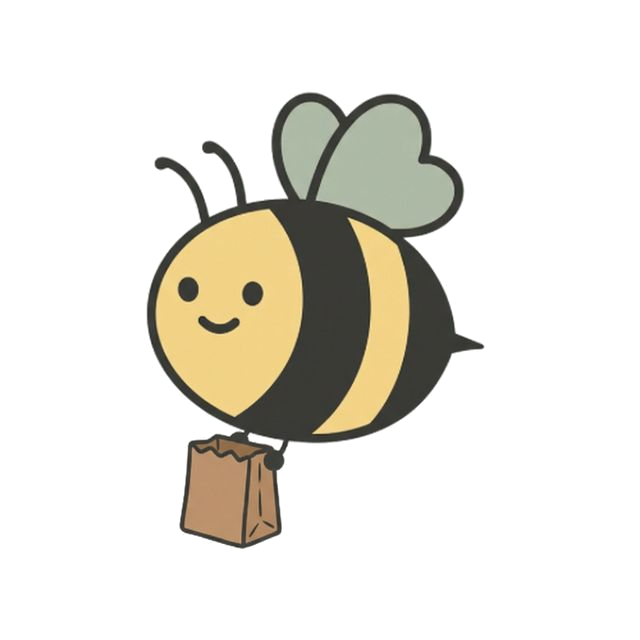
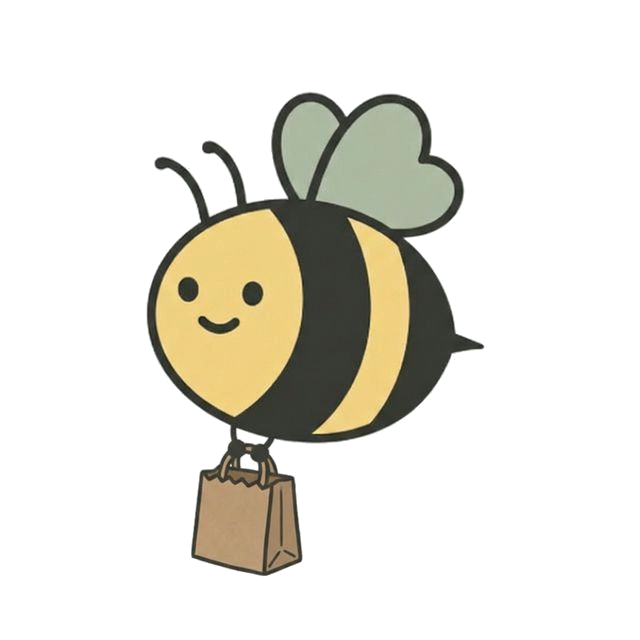
Standardize Bee Done cards layout, adjust home page buttons

Changed region(s): [[0.2812, 0.6562, 0.5, 0.9062]]

diff --git a/src/app/for-home-and-life/bee-done/page.tsx b/src/app/for-home-and-life/bee-done/page.tsx
@@ -221,7 +221,7 @@ export default function BeeDonePage() {
                             </div>
 
                             <div className="p-8">
-                                <div className="grid sm:grid-cols-2 lg:grid-cols-3 gap-4 mb-6">
+                                <div className="grid sm:grid-cols-2 gap-4 mb-6">
                                     {[
                                         { name: 'Returns', desc: 'Dropping off pre-labeled Amazon, UPS, or FedEx packages.', icon: '/bee_returns_box.png' },
                                         { name: 'Grocery/Retail Pickups', desc: 'Curbside pickup & delivery of pre-ordered items.', icon: '/bee_grocery_bag.png' },
@@ -229,12 +229,18 @@ export default function BeeDonePage() {
                                         { name: 'Pharmacy', desc: 'Secure pickup of pre-paid prescriptions.', icon: '/bee_pharmacy_pill.png' },
                                         { name: 'Post Office', desc: 'Handling mail, stamps, or prepared packages.', icon: '/bee_post_office_mail.png' },
                                     ].map((errand, i) => (
-                                        <div key={i} className="bg-white rounded-xl p-4 border border-[#BFC8A1]/20 hover:border-[#BFC8A1] hover:shadow-md transition-all">
-                                            <div className="w-24 h-24 mb-2 relative">
-                                                <Image src={errand.icon} alt={`${errand.name} Bee Icon`} fill className="object-contain" />
+                                        <div key={i} className="group rounded-xl p-5 border-2 border-[#BFC8A1]/15 hover:border-[#BFC8A1] hover:shadow-md transition-all bg-[#FFF8E7]">
+                                            <div className="flex items-center justify-between mb-2">
+                                                <div className="flex items-center gap-3">
+                                                    <div className="relative w-16 h-16 flex-shrink-0">
+                                                        <Image src={errand.icon} alt={`${errand.name} icon`} fill className="object-contain" />
+                                                    </div>
+                                                    <h3 className="font-[family-name:var(--font-lora)] font-semibold text-[#3C3C3C]">{errand.name}</h3>
+                                                </div>
                                             </div>
-                                            <h3 className="font-[family-name:var(--font-lora)] font-semibold text-[#3C3C3C] mb-1">{errand.name}</h3>
-                                            <p className="font-[family-name:var(--font-montserrat)] text-xs text-[#525252]">{errand.desc}</p>
+                                            <p className="font-[family-name:var(--font-montserrat)] text-sm text-[#525252]">
+                                                {errand.desc}
+                                            </p>
                                         </div>
                                     ))}
                                 </div>
@@ -321,24 +327,26 @@ export default function BeeDonePage() {
                             </div>
                         </div>
                         <div className="p-8">
-                            <div className="grid sm:grid-cols-2 gap-6">
+                            <div className="grid sm:grid-cols-2 gap-4">
                                 {[
                                     { name: 'The Pet Waste Yard Reset', price: '$35', desc: 'Thorough sweep of neglected yards to make them safe for kids and paws.', icon: '/bee_outdoor_scoop.png' },
                                     { name: 'The Weekly Hive Scoop', price: '$25/visit', desc: 'Weekly scheduled waste removal.', icon: '/bee_outdoor_bag.png' },
                                     { name: 'The Twice-a-Week Scoop', price: '$20/visit', desc: 'Discounted rate for two visits per week.', icon: '/bee_outdoor_two_bags.png' },
                                     { name: 'Seasonal Garden & Yard', price: '$40/hr', desc: 'Light weeding, watering, raking. Can be added to visit or booked as Worker Bee session.', icon: '/bee_outdoor_watering.png' },
                                 ].map((service, i) => (
-                                    <div key={i} className="flex gap-4 border-b border-gray-100 last:border-0 pb-4 last:pb-0 items-start">
-                                        <div className="relative w-16 h-16 flex-shrink-0 mt-1">
-                                            <Image src={service.icon} alt={`${service.name} icon`} fill className="object-contain" />
-                                        </div>
-                                        <div className="flex-grow flex flex-col">
-                                            <div className="flex justify-between items-baseline mb-1">
-                                                <h3 className="font-[family-name:var(--font-lora)] font-bold text-[#3C3C3C] leading-tight">{service.name}</h3>
-                                                <span className="text-terra-cotta-dark font-bold text-sm whitespace-nowrap flex-shrink-0 ml-2">{service.price}</span>
+                                    <div key={i} className="group rounded-xl p-5 border-2 border-[#BFC8A1]/15 hover:border-[#BFC8A1] hover:shadow-md transition-all bg-[#FFF8E7]">
+                                        <div className="flex items-center justify-between mb-2">
+                                            <div className="flex items-center gap-3">
+                                                <div className="relative w-16 h-16 flex-shrink-0">
+                                                    <Image src={service.icon} alt={`${service.name} icon`} fill className="object-contain" />
+                                                </div>
+                                                <h3 className="font-[family-name:var(--font-lora)] font-semibold text-[#3C3C3C]">{service.name}</h3>
                                             </div>
-                                            <p className="font-[family-name:var(--font-montserrat)] text-xs text-[#525252] leading-snug">{service.desc}</p>
+                                            <span className="bg-[#5D684B] text-white text-sm px-3 py-1 rounded-full font-[family-name:var(--font-montserrat)] font-bold">{service.price}</span>
                                         </div>
+                                        <p className="font-[family-name:var(--font-montserrat)] text-sm text-[#525252]">
+                                            {service.desc}
+                                        </p>
                                     </div>
                                 ))}
                             </div>

diff --git a/src/app/page.tsx b/src/app/page.tsx
@@ -208,7 +208,7 @@ export default function HomePage() {
             <Link
               key={index}
               href={service.href}
-              className={`group relative overflow-hidden rounded-3xl border-2 border-black hover:border-warm-honey transition-all duration-300 hover:shadow-xl hover:-translate-y-1 p-8 flex flex-col items-center text-center ${service.bgColor || 'bg-white'}`}
+              className={`group relative overflow-hidden rounded-3xl border-2 border-black hover:border-warm-honey transition-all duration-300 hover:shadow-xl hover:-translate-y-1 p-6 md:p-8 flex flex-col items-center text-center transform scale-90 md:scale-95 ${service.bgColor || 'bg-white'}`}
             >
               {/* background pattern */}
               {service.patternColor && (
@@ -222,8 +222,11 @@ export default function HomePage() {
                 </div>
               )}
 
+              <h3 className="font-[family-name:var(--font-lora)] text-3xl font-bold text-charcoal-gray mb-4 z-10">
+                {service.name}
+              </h3>
               <div
-                className="w-48 h-48 relative mb-6 group-hover:scale-110 transition-transform duration-300 z-10"
+                className="w-40 h-40 md:w-44 md:h-44 relative mb-6 group-hover:scale-110 transition-transform duration-300 z-10"
               >
                 <Image
                   src={service.bee}
@@ -232,10 +235,7 @@ export default function HomePage() {
                   className="object-contain"
                 />
               </div>
-              <h3 className="font-[family-name:var(--font-lora)] text-3xl md:text-4xl font-bold text-charcoal-gray mb-6 z-10">
-                {service.name}
-              </h3>
-              <div className="mt-auto px-12 py-4 rounded-full text-white font-semibold text-lg md:text-xl transition-colors z-10 shadow-sm border-2 border-black" style={{ backgroundColor: service.patternColor ? service.color : service.color }}>
+              <div className="mt-auto px-10 py-3 rounded-full text-white font-semibold text-base md:text-lg transition-colors z-10 shadow-sm border-2 border-black" style={{ backgroundColor: service.patternColor ? service.color : service.color }}>
                 {service.actionText || "View Services"}
               </div>
             </Link>

diff --git a/remove_bg5.py b/remove_bg5.py
@@ -1,0 +1,33 @@
+from PIL import Image
+import os
+
+def remove_white_bg(img_path, dest_path):
+    img = Image.open(img_path).convert("RGBA")
+    datas = img.getdata()
+    newData = []
+    
+    for item in datas:
+        # Near white
+        if item[0] > 240 and item[1] > 240 and item[2] > 240:
+            newData.append((255, 255, 255, 0))
+        else:
+            newData.append(item)
+            
+    img.putdata(newData)
+    img.save(dest_path, "PNG")
+
+files = [
+    ("/Users/josephknittel/.gemini/antigravity/brain/0eaa5c12-51f4-4469-99ea-c42e6feba2a1/bee_dash_returns_1771623532307.png", "public/bee_returns_box.png"),
+    ("/Users/josephknittel/.gemini/antigravity/brain/0eaa5c12-51f4-4469-99ea-c42e6feba2a1/bee_dash_grocery_1771623558872.png", "public/bee_grocery_bag.png"),
+]
+
+for src, dest in files:
+    try:
+        if os.path.exists(src):
+            print(f"Processing and saving to {dest}...")
+            remove_white_bg(src, dest)
+    except Exception as e:
+        print(f"Error on {src}: {e}")
+        
+    
+print("Done!")
